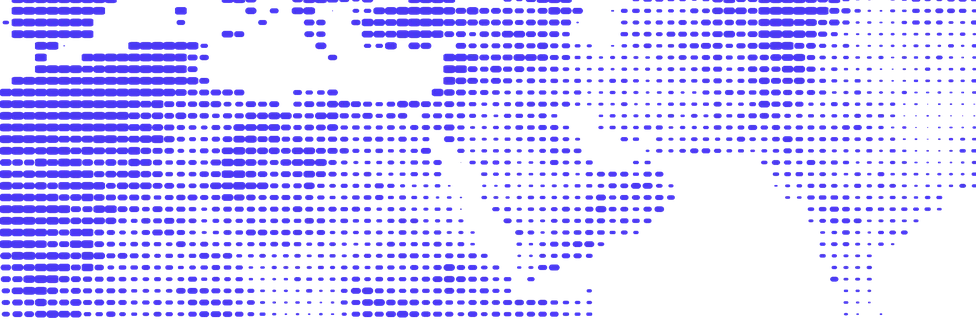
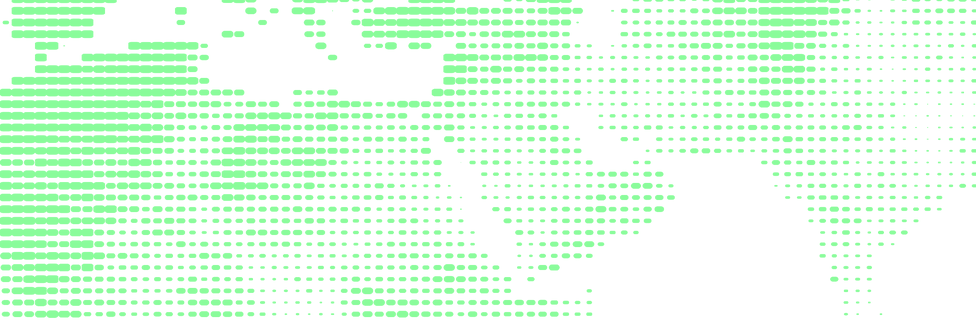
Draw the partner region maps in a color per region on black
The region maps on the directory cards and the profile band now sit on
black, with their dashes in one of the four artwork accents, as the customer
story covers do. The city point turns white so it reads on every accent. The
directory goes back to light and the closing signoff to muted: the black
covers already set the cards apart.

diff --git a/packages/twenty-website/src/sections/partners-directory/RegionMapPoint.tsx b/packages/twenty-website/src/sections/partners-directory/RegionMapPoint.tsx
@@ -20,11 +20,11 @@ const MapFrame = styled.div`
   transform: translateX(-50%);
 `;
 
-// As on the earlier globe: a green dot, cut out of the blue dots by a white
-// edge, ringed in green.
+// A white dot, cut out of the region's dashes by a black edge, ringed in
+// white: it stays readable whatever the region's accent.
 const Point = styled.span`
-  background-color: ${color('green')};
-  border: 2px solid ${color('white')};
+  background-color: ${color('white')};
+  border: 2px solid ${color('black')};
   border-radius: 50%;
   height: ${spacing(4)};
   position: absolute;
@@ -32,7 +32,7 @@ const Point = styled.span`
   width: ${spacing(4)};
 
   &::after {
-    border: 1px solid ${color('green')};
+    border: 1px solid ${color('white')};
     border-radius: 50%;
     content: '';
     inset: calc(-1 * ${spacing(2)});

diff --git a/packages/twenty-website/src/sections/partners-directory/PartnerDetail.tsx b/packages/twenty-website/src/sections/partners-directory/PartnerDetail.tsx
@@ -46,8 +46,10 @@ import { partnerBaseRegion } from './partner-base-region';
 import { RegionMapPoint } from './RegionMapPoint';
 
 // The partner's region: the same still as its directory card
-// (public/images/partners/regions), with the partner's place on it.
+// (public/images/partners/regions), dashes in the region's accent on black like
+// the customer story covers, with the partner's place on it.
 const MapBand = styled.div`
+  background-color: ${color('black')};
   border: 1px solid ${semanticColor.line};
   border-radius: ${radius(2)};
   height: 200px;

diff --git a/packages/twenty-website/src/sections/partners-directory/PartnerCard.tsx b/packages/twenty-website/src/sections/partners-directory/PartnerCard.tsx
@@ -60,6 +60,7 @@ const Card = styled.article`
 // point, with a halftone sized for the card (<region>-card.webp) so the dots
 // stay crisp instead of blurring when the band's still is shrunk.
 const Cover = styled.div`
+  background-color: ${color('black')};
   border-bottom: 1px solid ${semanticColor.line};
   height: 160px;
   overflow: hidden;

diff --git a/packages/twenty-website/src/sections/partners-directory/PartnersClosing.tsx b/packages/twenty-website/src/sections/partners-directory/PartnersClosing.tsx
@@ -17,7 +17,7 @@ export function PartnersClosing({ action }: PartnersClosingProps) {
         msg`Tell us what you need and we'll match you with a certified Twenty partner.`,
       )}
       heading={i18n._(msg`Didn't find the *right partner*?`)}
-      scheme="light"
+      scheme="muted"
     >
       {action}
     </Signoff>

diff --git a/packages/twenty-website/src/sections/partners-directory/PartnersDirectory.tsx b/packages/twenty-website/src/sections/partners-directory/PartnersDirectory.tsx
@@ -69,7 +69,7 @@ export function PartnersDirectory({
   const { i18n } = useLingui();
 
   return (
-    <SectionShell rhythm="section" scheme="muted">
+    <SectionShell rhythm="section" scheme="light">
       <SectionStack>
         <Header id={PARTNER_DIRECTORY_ANCHOR_ID} tabIndex={-1}>
           <SectionIntro>
